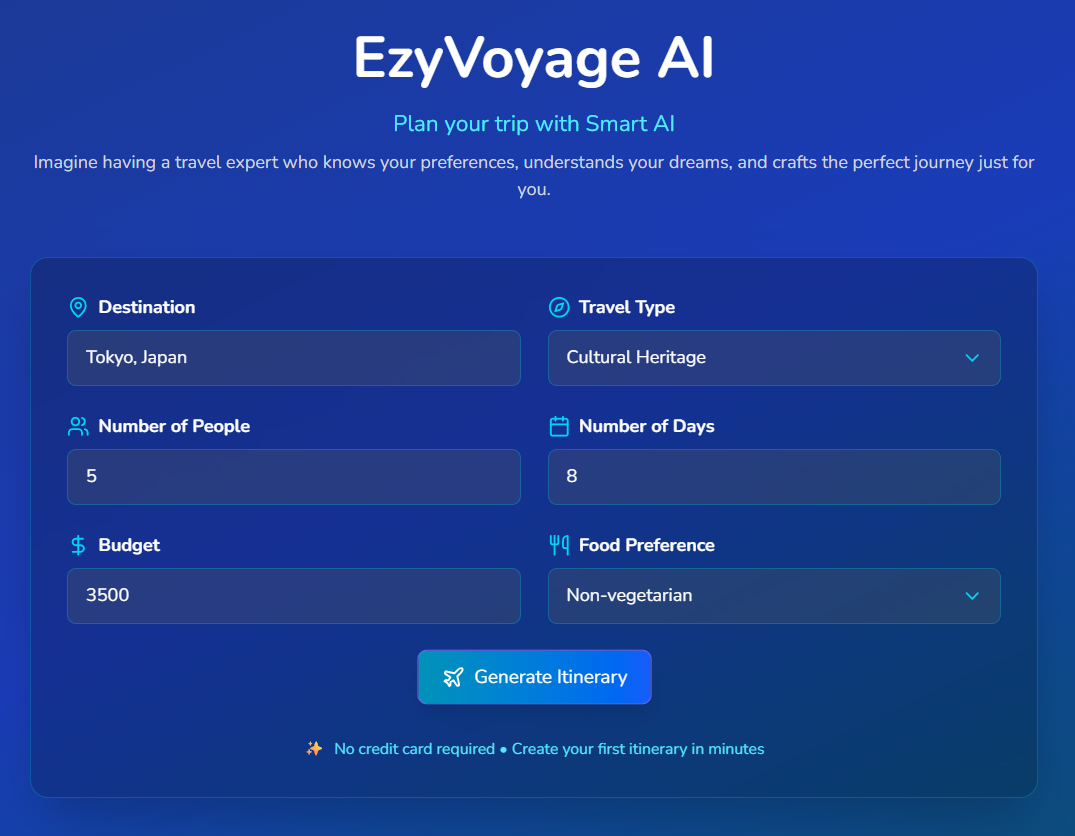
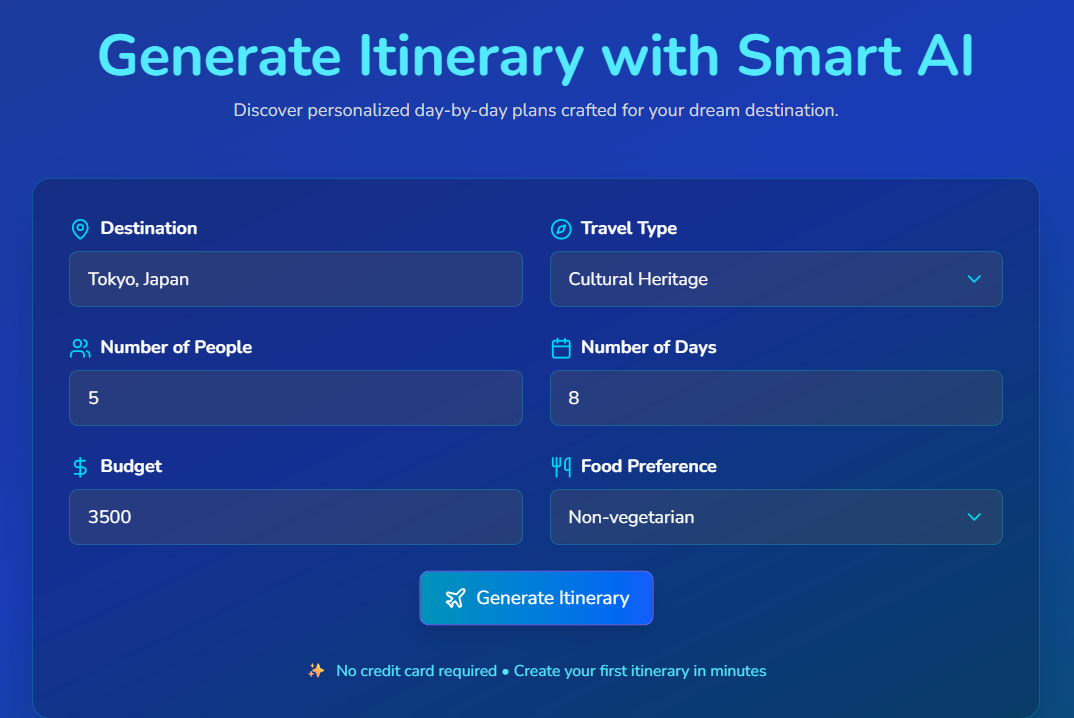
flag issue

diff --git a/frontend/src/Components/TravelAdvisory.jsx b/frontend/src/Components/TravelAdvisory.jsx
@@ -1,5 +1,5 @@
 import React, { useState, useEffect } from 'react';
-import { ChevronDown, Globe, ExternalLink, AlertTriangle } from 'lucide-react';
+import { ChevronDown, ExternalLink, AlertTriangle } from 'lucide-react';
 
 const TravelAdvisory = () => {
   const [userNationality, setUserNationality] = useState('');
@@ -9,6 +9,9 @@ const TravelAdvisory = () => {
   const [isLoading, setIsLoading] = useState(false);
   const [error, setError] = useState('');
   const [searchTerm, setSearchTerm] = useState('');
+  const [userNationalityCountry, setUserNationalityCountry] = useState(null);
+
+  
 
   // Fetch user nationality and countries on component mount
   useEffect(() => {
@@ -33,6 +36,7 @@ const TravelAdvisory = () => {
 
       if (data.success) {
         setUserNationality(data.data.userNationality);
+        setUserNationalityCountry(data.data.userNationalityCountry);
         setCountries(data.data.countries);
       } else {
         setError(data.message || 'Failed to fetch user data');
@@ -87,6 +91,8 @@ const TravelAdvisory = () => {
     }
   };
 
+  
+
   // Filter countries based on search term
   const filteredCountries = countries.filter(country =>
     country.name.toLowerCase().includes(searchTerm.toLowerCase())
@@ -99,8 +105,8 @@ const TravelAdvisory = () => {
           {/* Header */}
           <div className="text-center mb-8">
             <div className="flex items-center justify-center mb-4">
-              <Globe className="text-white w-12 h-12 mr-3" />
-              <h1 className="text-4xl font-bold text-white">Travel Advisory</h1>
+              <AlertTriangle className="text-cyan-300 w-12 h-12 mr-3" />
+              <h1 className="text-4xl text-cyan-300 font-bold">Travel Advisory</h1>
             </div>
             <p className="text-blue-100 text-lg">
               Check official travel advisories for your destination
@@ -122,9 +128,12 @@ const TravelAdvisory = () => {
             </label>
             <div className="bg-white/10 border border-white/20 rounded-lg p-4">
               <div className="flex items-center">
+                {userNationalityCountry && (
+                  <span className="text-2xl mr-3">{userNationalityCountry.flag}</span>
+                )}
                 <span className="text-white font-medium">
-                  {userNationality || 'Loading...'}
-                </span>
+  {userNationalityCountry ? userNationalityCountry.name : (userNationality || 'Loading...')}
+</span>
               </div>
             </div>
           </div>
@@ -170,7 +179,7 @@ const TravelAdvisory = () => {
                   <div className="max-h-60 overflow-y-auto bg-white">
                     {filteredCountries.map((country) => (
                       <div
-                        key={country.code}
+                        key={country.flag}
                         onClick={() => handleCountrySelect(country)}
                         className="w-full px-4 py-3 text-left hover:bg-blue-50 transition-colors duration-150 flex items-center text-gray-900 border-b border-gray-100 last:border-b-0 bg-white cursor-pointer"
                         style={{ backgroundColor: 'white', color: 'black' }}

diff --git a/backend/src/data/countries.js b/backend/src/data/countries.js
@@ -27,7 +27,7 @@ const countries = [
   { code: 'BG', name: 'Bulgaria', flag: '🇧🇬' },
   { code: 'BF', name: 'Burkina Faso', flag: '🇧🇫' },
   { code: 'BI', name: 'Burundi', flag: '🇧🇮' },
-  { code: 'CV', name: 'Cape Verde', flag: '🇨🇻' },
+  { code: 'CV', name: 'Cabo Verde', flag: '🇨🇻' },
   { code: 'KH', name: 'Cambodia', flag: '🇰🇭' },
   { code: 'CM', name: 'Cameroon', flag: '🇨🇲' },
   { code: 'CA', name: 'Canada', flag: '🇨🇦' },
@@ -37,10 +37,9 @@ const countries = [
   { code: 'CN', name: 'China', flag: '🇨🇳' },
   { code: 'CO', name: 'Colombia', flag: '🇨🇴' },
   { code: 'KM', name: 'Comoros', flag: '🇰🇲' },
-  { code: 'CG', name: 'Congo', flag: '🇨🇬' },
-  { code: 'CD', name: 'Democratic Republic of Congo', flag: '🇨🇩' },
+  { code: 'CD', name: 'Congo (Democratic Republic)', flag: '🇨🇩' },
+  { code: 'CG', name: 'Congo (Republic)', flag: '🇨🇬' },
   { code: 'CR', name: 'Costa Rica', flag: '🇨🇷' },
-  { code: 'CI', name: 'Côte d\'Ivoire', flag: '🇨🇮' },
   { code: 'HR', name: 'Croatia', flag: '🇭🇷' },
   { code: 'CU', name: 'Cuba', flag: '🇨🇺' },
   { code: 'CY', name: 'Cyprus', flag: '🇨🇾' },
@@ -88,8 +87,7 @@ const countries = [
   { code: 'KZ', name: 'Kazakhstan', flag: '🇰🇿' },
   { code: 'KE', name: 'Kenya', flag: '🇰🇪' },
   { code: 'KI', name: 'Kiribati', flag: '🇰🇮' },
-  { code: 'KP', name: 'North Korea', flag: '🇰🇵' },
-  { code: 'KR', name: 'South Korea', flag: '🇰🇷' },
+  { code: 'KR', name: 'Korea (South)', flag: '🇰🇷' },
   { code: 'KW', name: 'Kuwait', flag: '🇰🇼' },
   { code: 'KG', name: 'Kyrgyzstan', flag: '🇰🇬' },
   { code: 'LA', name: 'Laos', flag: '🇱🇦' },
@@ -148,7 +146,7 @@ const countries = [
   { code: 'VC', name: 'Saint Vincent and the Grenadines', flag: '🇻🇨' },
   { code: 'WS', name: 'Samoa', flag: '🇼🇸' },
   { code: 'SM', name: 'San Marino', flag: '🇸🇲' },
-  { code: 'ST', name: 'São Tomé and Príncipe', flag: '🇸🇹' },
+  { code: 'ST', name: 'Sao Tome and Principe', flag: '🇸🇹' },
   { code: 'SA', name: 'Saudi Arabia', flag: '🇸🇦' },
   { code: 'SN', name: 'Senegal', flag: '🇸🇳' },
   { code: 'RS', name: 'Serbia', flag: '🇷🇸' },
@@ -192,7 +190,7 @@ const countries = [
   { code: 'VN', name: 'Vietnam', flag: '🇻🇳' },
   { code: 'YE', name: 'Yemen', flag: '🇾🇪' },
   { code: 'ZM', name: 'Zambia', flag: '🇿🇲' },
-  { code: 'ZW', name: 'Zimbabwe', flag: '🇿🇼' }
+  { code: 'ZW', name: 'Zimbabwe', flag: '🇿🇼' },
 ];
 
 module.exports = countries;

diff --git a/frontend/src/Components/Home.jsx b/frontend/src/Components/Home.jsx
@@ -3,6 +3,7 @@ import { ChevronLeft, ChevronRight, MapPin, Sparkles, Eye, AlertTriangle } from 
 import maldives from '../assets/maldives.jpg';
 import swiss from '../assets/swiss.jpg';
 import itinerary from '../assets/itinerary.png'
+import adv from '../assets/adv.png'
 
 const Home = () => {
   const [currentSlide, setCurrentSlide] = useState(0);
@@ -71,7 +72,7 @@ const Home = () => {
     description: "Stay informed with official advisories",
     icon: <AlertTriangle className="w-8 h-8" />,
     route: "/advisory",
-    image: itinerary,
+    image: adv,
     gradient: ""
   }
 ];
@@ -245,7 +246,7 @@ const Home = () => {
                           src={feature.image}
                           alt={feature.title}
                           className="rounded-xl w-full h-86 object-cover shadow-lg bg-white/10"
-                          style={{ maxHeight: '500px', margin: '0 auto' }}
+                          style={{ maxHeight: '500px', maxWidth:'500px', margin: '0 auto' }}
                         />
                       </div>
                     </div>

diff --git a/frontend/src/Components/TravelPlannerAI.jsx b/frontend/src/Components/TravelPlannerAI.jsx
@@ -270,11 +270,10 @@ const TravelPlannerAI = () => {
     <div className="min-h-screen w-screen bg-gradient-to-br from-blue-900 via-blue-800 to-cyan-900 p-8">
       <div className="max-w-4xl mx-auto">
         <div className="text-center mb-12">
-          <h1 className="text-5xl font-bold text-white mb-4">EzyVoyage AI</h1>
-          <p className="text-xl text-cyan-300 mb-2">Plan your trip with Smart AI</p>
+          <h1 className="text-5xl font-bold text-cyan-300 mt-20 mb-2">Generate Itinerary with Smart AI</h1>
+          {/* <p className="text-xl text-cyan-300 mb-2"></p> */}
           <p className="text-gray-300">
-            Imagine having a travel expert who knows your preferences, understands your dreams,
-            and crafts the perfect journey just for you.
+          Discover personalized day-by-day plans crafted for your dream destination.
           </p>
         </div>
 

diff --git a/backend/src/routes/travelAdvisory.js b/backend/src/routes/travelAdvisory.js
@@ -45,10 +45,15 @@ router.get('/user-nationality', authenticateToken, async (req, res) => {
       });
     }
 
+    const userNationalityCountry = countries.find(country => 
+      country.name.toLowerCase() === user.nationality.toLowerCase()
+    );
+    
     res.json({
       success: true,
       data: {
         userNationality: user.nationality,
+        userNationalityCountry: userNationalityCountry,
         countries: countries
       }
     });
@@ -59,6 +64,13 @@ router.get('/user-nationality', authenticateToken, async (req, res) => {
       message: 'Server error'
     });
   }
+});
+
+router.get('/all-countries', (req, res) => {
+  res.json({
+    success: true,
+    countries: countries
+  });
 });
 
 // Route to get travel advisory URL
